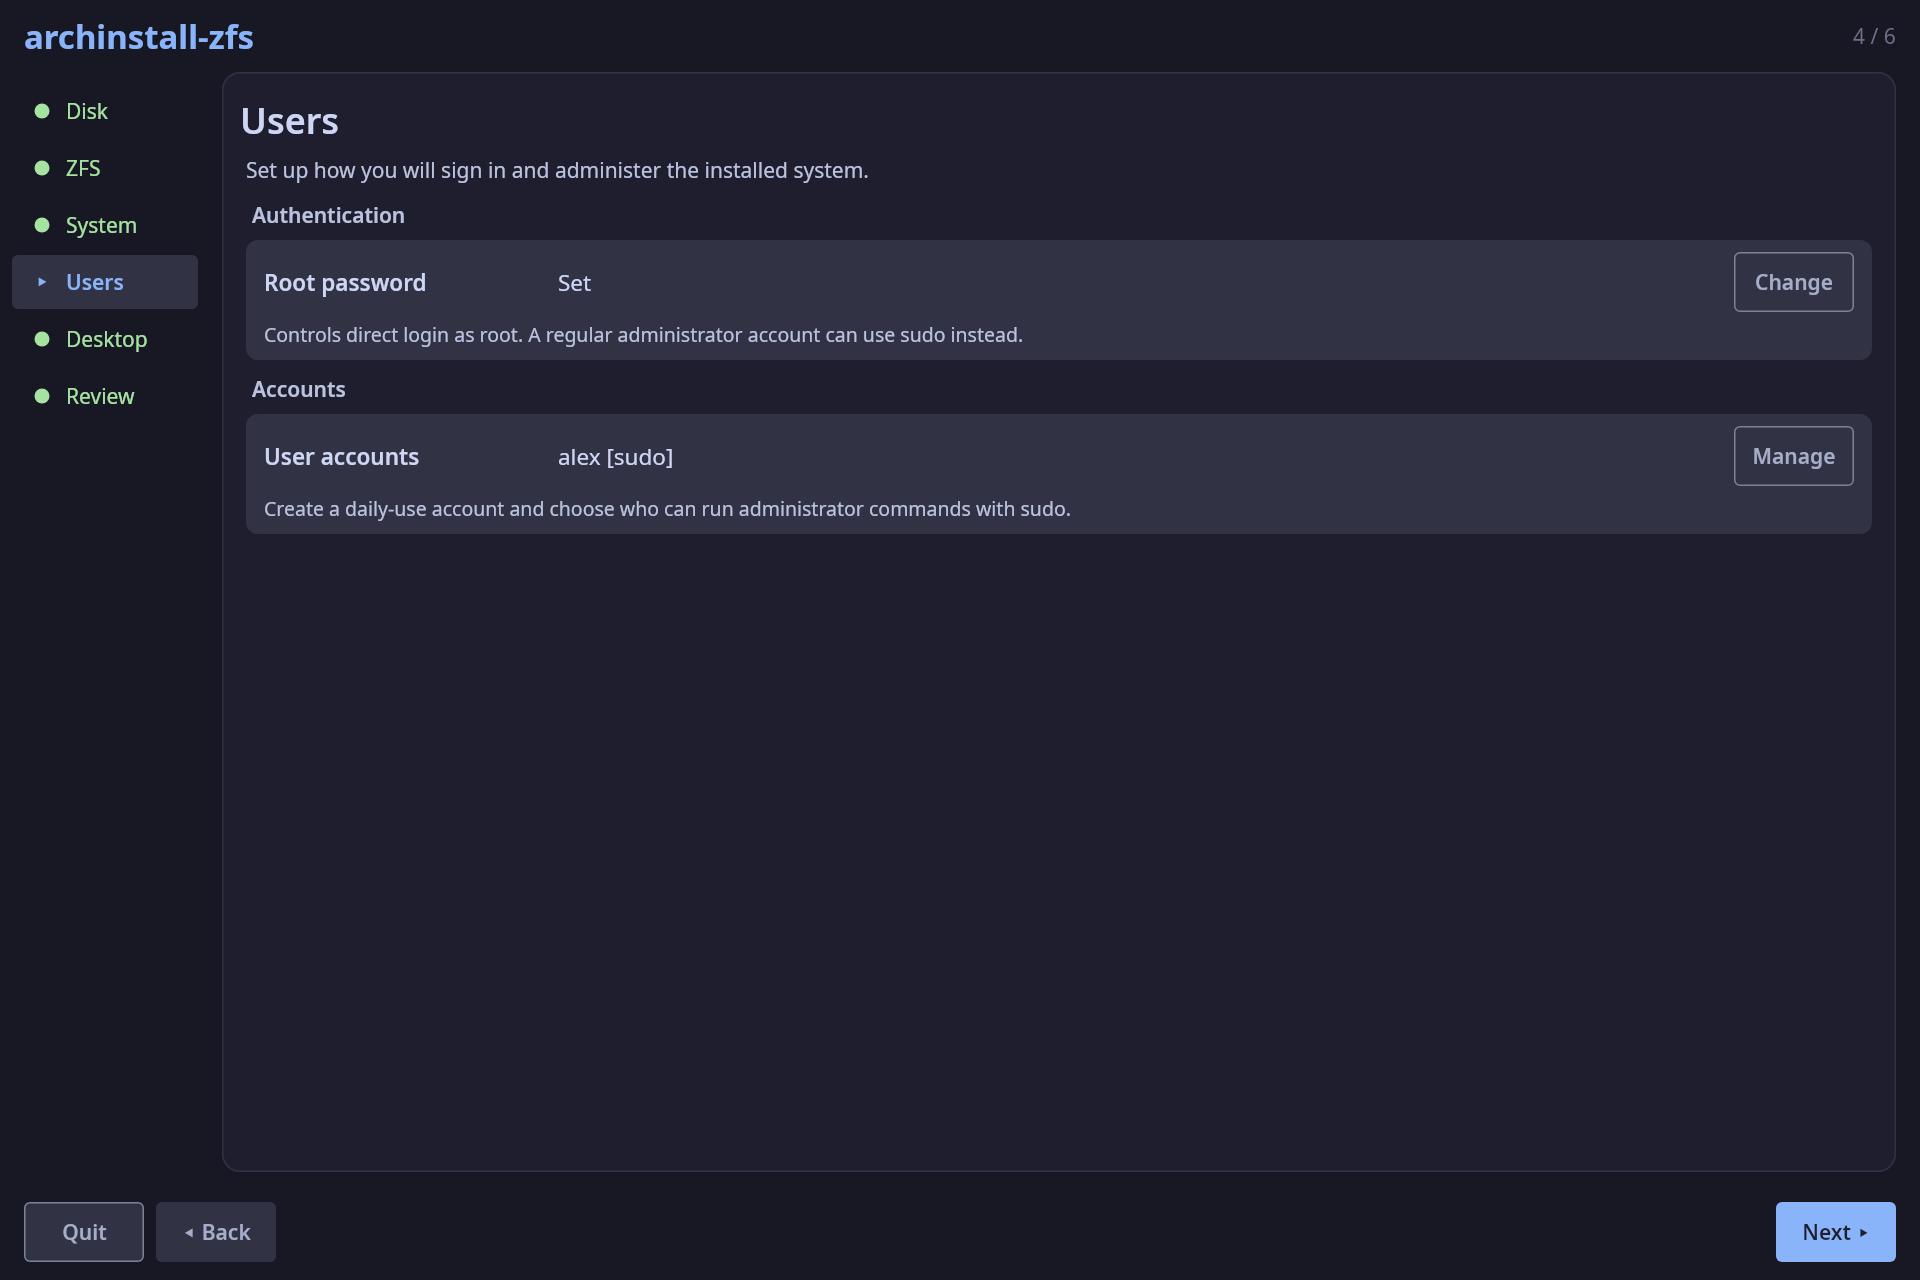
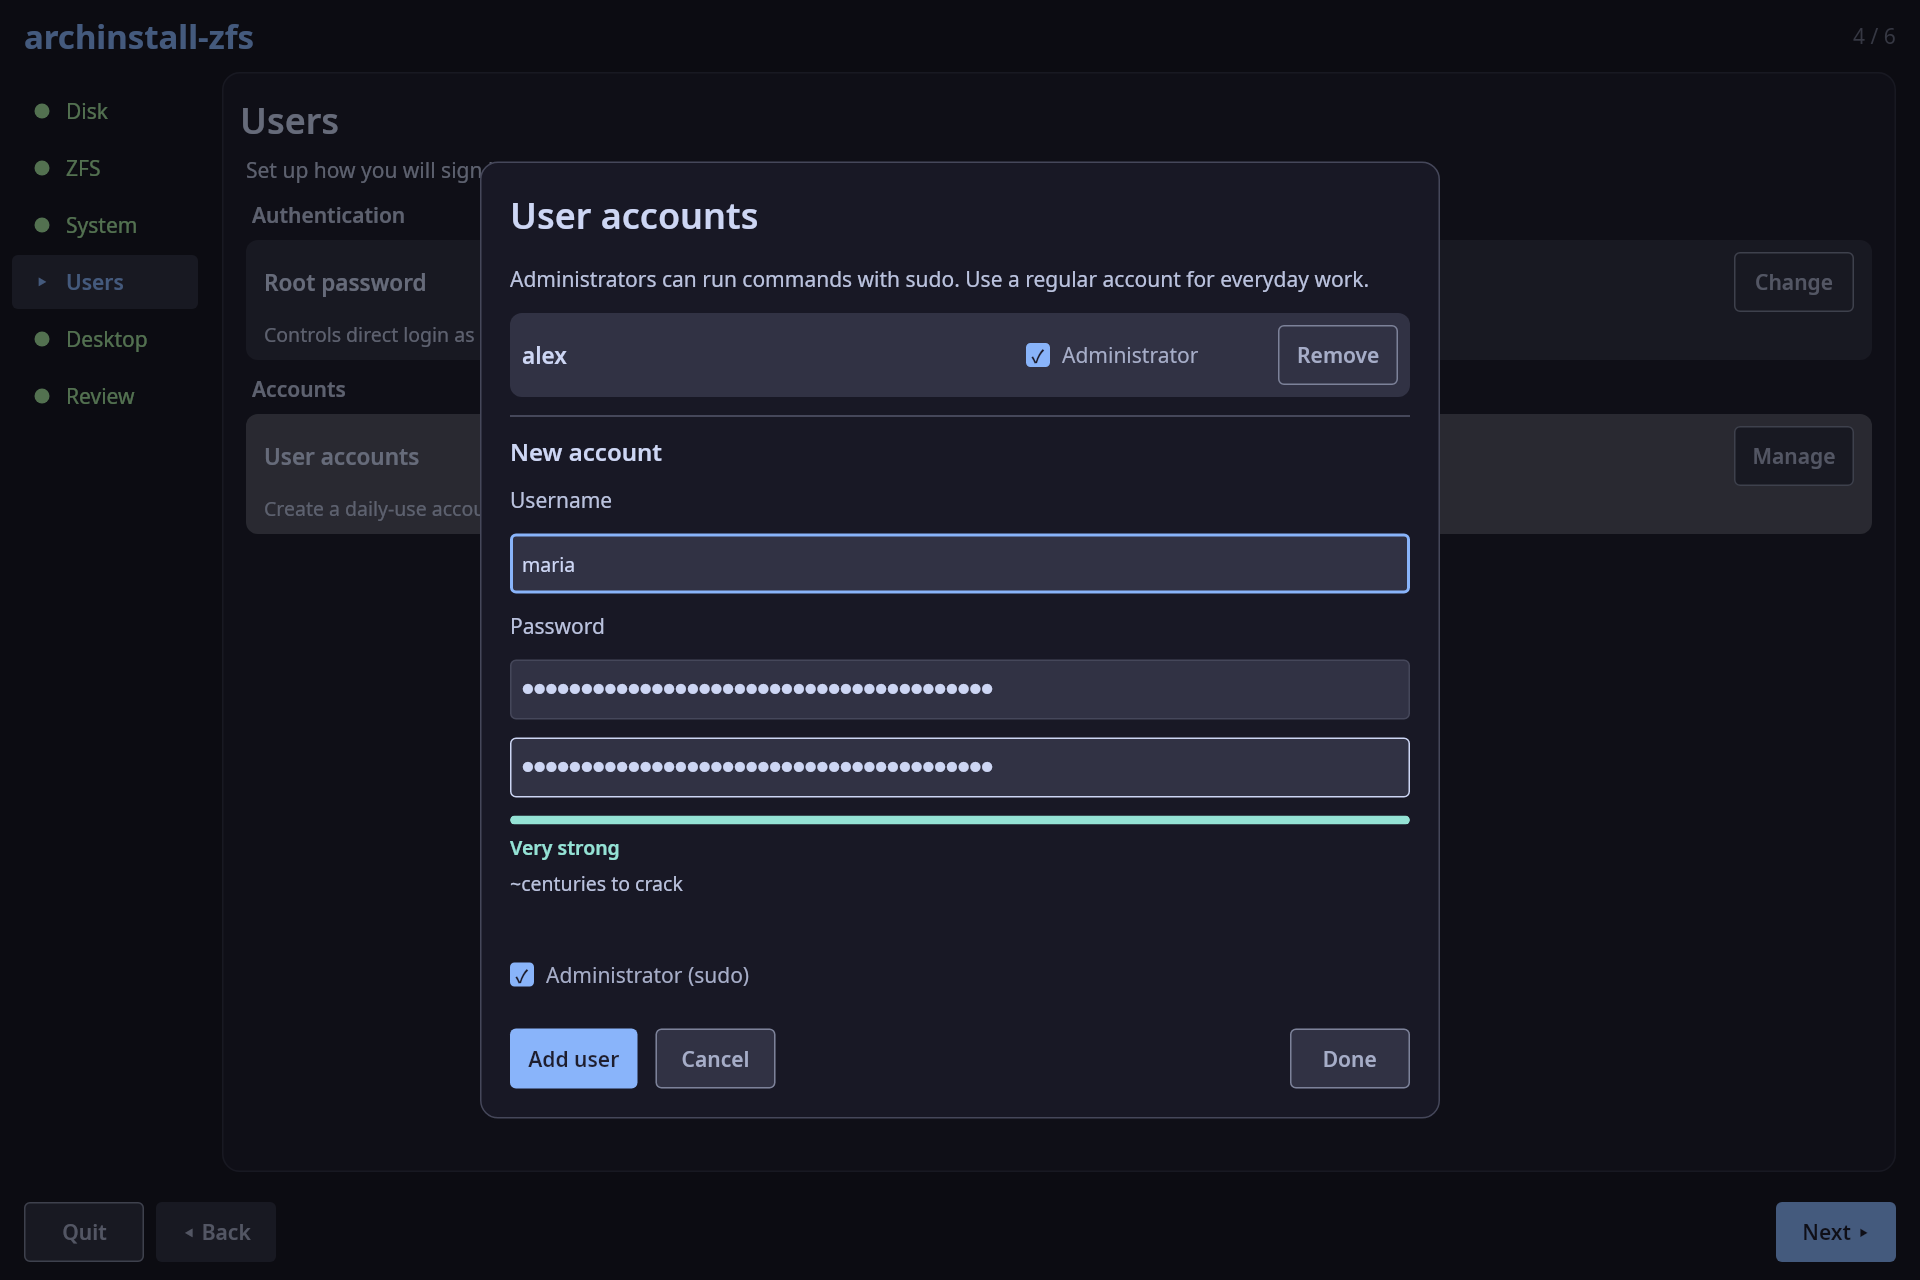
Show the account dialog in the README
The Users page on its own is two rows and a Manage button; the dialog behind it
is where the account is actually created, and no screenshot showed a dialog at
all.

- Let a README shot run an interaction before its capture, and fill the account
  form through the real controls the way the interaction flows do
- Capture Users with the form filled: the existing account, the new one, the
  password strength meter and the sudo choice

diff --git a/slint-ui/scripts/readme_shots.py b/slint-ui/scripts/readme_shots.py
@@ -14,20 +14,36 @@ import os
 from pathlib import Path
 import shutil
 import sys
+import time
 
 from review import Preview
 
-# README image stem -> preview scene, in the order the README shows them.
+
+def add_user(p):
+    """The wizard keeps accounts, packages and services behind dialogs, so a
+    page on its own never shows one. Fill the account form through the real
+    controls, the way interactions.py does, and leave it open for the shot."""
+    p.click('Button', 'User accounts')
+    p.click('Button', 'Add another user')
+    p.fill(0, 'maria')
+    p.fill(1, 'a long preview passphrase for the README')
+    p.fill(2, 'a long preview passphrase for the README')
+    # The strength meter and the button state follow the input by a frame.
+    time.sleep(.5)
+
+
+# README image stem -> preview scene and the interaction to run before the
+# capture, in the order the README shows them.
 SHOTS = {
-    'welcome-screen': 'welcome',
-    'disk-step': 'disk',
-    'zfs-step': 'zfs',
-    'system-step': 'system',
-    'users-step': 'users',
-    'desktop-step': 'desktop',
-    'review-step': 'review',
-    'install-progress': 'install',
-    'install-complete': 'done',
+    'welcome-screen': ('welcome', None),
+    'disk-step': ('disk', None),
+    'zfs-step': ('zfs', None),
+    'system-step': ('system', None),
+    'users-step': ('users', add_user),
+    'desktop-step': ('desktop', None),
+    'review-step': ('review', None),
+    'install-progress': ('install', None),
+    'install-complete': ('done', None),
 }
 
 
@@ -53,9 +69,12 @@ def main():
     os.environ['AZFS_PREVIEW_BANNER'] = '0'
     failures = []
     for name in args.shots:
-        preview = Preview(binary, SHOTS[name], args.size, args.scale, args.work)
+        scene, action = SHOTS[name]
+        preview = Preview(binary, scene, args.size, args.scale, args.work)
         try:
             preview.ready()
+            if action:
+                action(preview)
             preview.screenshot(name)
         except Exception as error:  # noqa: BLE001 - report every scene, then exit non-zero
             failures.append(f'{name}: {type(error).__name__}: {error}')
@@ -67,7 +86,7 @@ def main():
             failures.append(f'{name}: {len(issues)} log issue(s): {issues[0].strip()}')
             continue
         shutil.copyfile(args.work / f'{name}.png', args.assets / f'{name}.png')
-        print(f'{args.assets / name}.png ({SHOTS[name]} @ {args.size}@{args.scale}x)', flush=True)
+        print(f'{args.assets / name}.png ({scene} @ {args.size}@{args.scale}x)', flush=True)
     for failure in failures:
         print(f'FAIL {failure}', file=sys.stderr)
     if failures:

diff --git a/slint-ui/README.md b/slint-ui/README.md
@@ -134,9 +134,13 @@ uv run slint-ui/scripts/readme_shots.py --shots disk-step review-step
 captures show the installer's own layout; keep the banner in every other preview
 run. The intermediate screenshots, element trees and logs stay in
 `target/readme-shots`. Review the images before committing them: the script only
-checks that each scene rendered and logged nothing. A rerun reproduces every
-capture byte for byte except `install-progress.png`, whose spinner is caught
-mid-rotation; its contents do not change.
+checks that each scene rendered and logged nothing. A rerun reproduces the
+captures byte for byte, apart from `install-progress.png`, which can differ by
+the few pixels its spinner turned; its contents do not change.
+
+A shot may open a dialog first: `users-step` fills the account form through the
+real controls, the way `interactions.py` does, because a wizard page on its own
+never shows one. Add such a step beside its scene in the script's `SHOTS`.
 
 For additional interaction checks, use Slint MCP's `get_element_tree`, `click_element`,
 `set_element_value`, and `dispatch_key_event`. Check password entry, Wi-Fi connect,

diff --git a/README.md b/README.md
@@ -44,7 +44,7 @@ Key improvements over the Python version:
 |:-:|:-:|
 | <img src="assets/disk-step.png" width="420"> | <img src="assets/zfs-step.png" width="420"> |
 
-| System settings | Users and administration |
+| System settings | Adding a user account |
 |:-:|:-:|
 | <img src="assets/system-step.png" width="420"> | <img src="assets/users-step.png" width="420"> |
 
